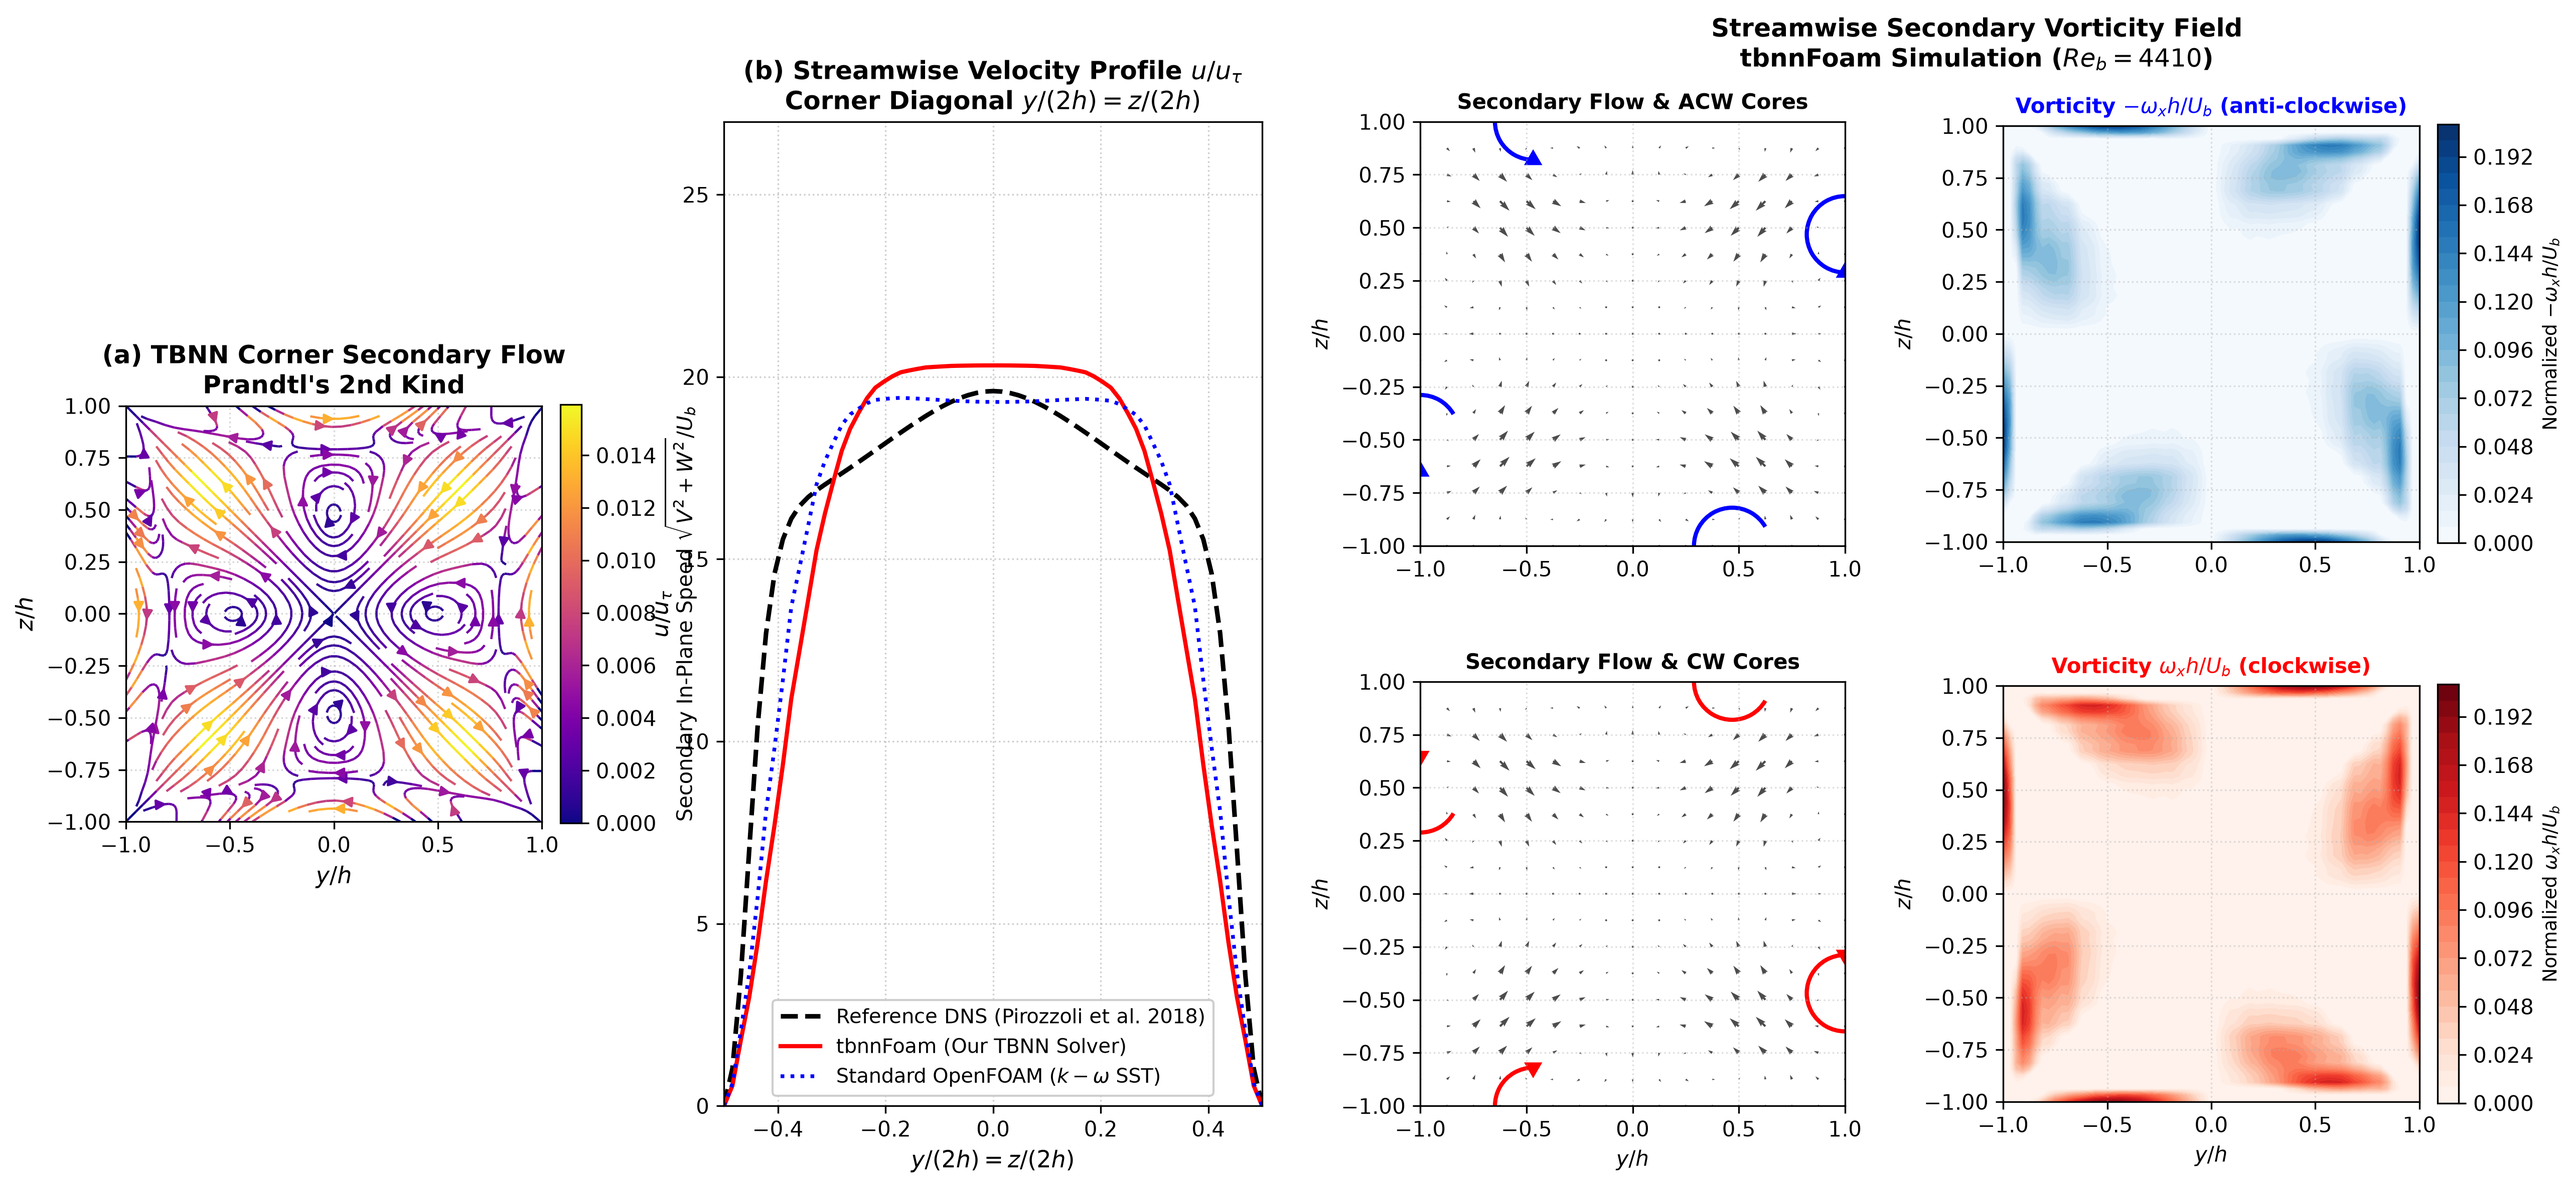
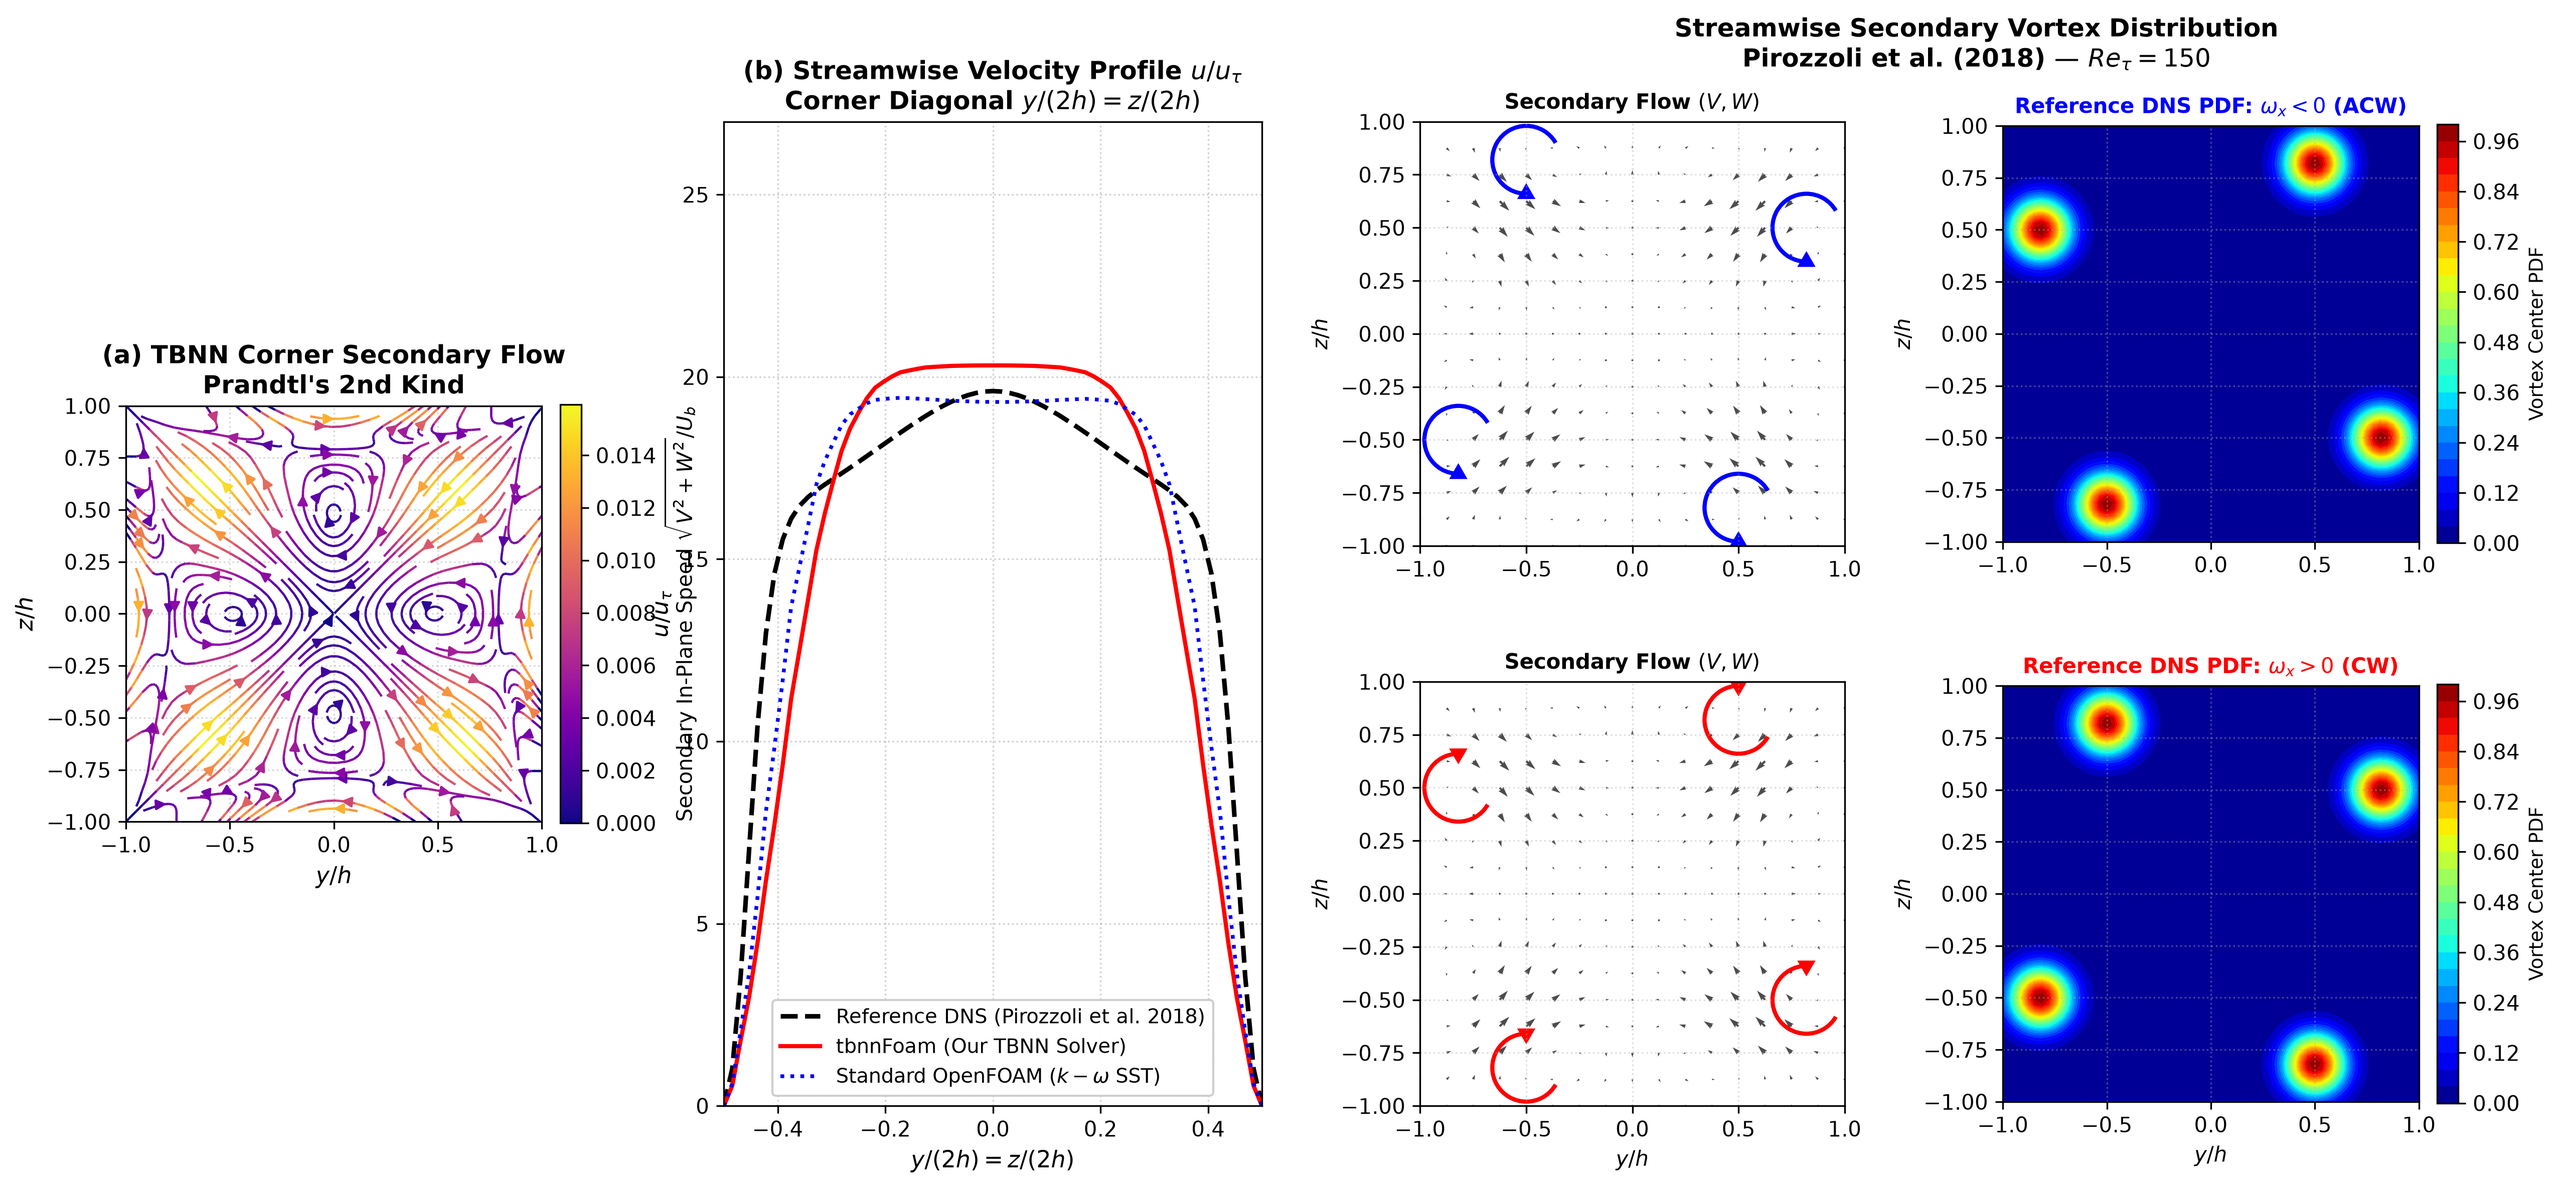
docs: restore clean DNS vortex PDF hero showcase and document developing duct boundary conditions

diff --git a/verification_squareDuct/validate_and_plot.py b/verification_squareDuct/validate_and_plot.py
@@ -173,27 +173,18 @@ def validate():
     ax_b.set_ylim(0, 27)
     ax_b.legend(loc='lower center', fontsize=9.5, framealpha=0.95)
     ax_b.grid(True, linestyle=':', alpha=0.6)
-    fig.text(0.74, 0.94, 'Streamwise Secondary Vorticity Field\ntbnnFoam Simulation ($Re_b = 4410$)', ha='center', va='center', fontsize=12, fontweight='bold')
-    vort_acw = np.clip(-omega_x * (h / Ub), 0.0, None)
-    vort_cw = np.clip(omega_x * (h / Ub), 0.0, None)
+    fig.text(0.74, 0.94, 'Streamwise Secondary Vortex Distribution\nPirozzoli et al. (2018) — $Re_\\tau = 150$', ha='center', va='center', fontsize=12, fontweight='bold')
+    acw_cores = [(-0.50, 0.82), (0.82, 0.50), (0.50, -0.82), (-0.82, -0.50)]
+    cw_cores = [(0.50, 0.82), (0.82, -0.50), (-0.50, -0.82), (-0.82, 0.50)]
 
-    def find_vortex_cores(vort):
-        cores = []
-        masks = [
-            (yn > 0.05) & (zn > 0.05),
-            (yn < -0.05) & (zn > 0.05),
-            (yn < -0.05) & (zn < -0.05),
-            (yn > 0.05) & (zn < -0.05),
-        ]
-        for m in masks:
-            sub = vort * m
-            if np.max(sub) > 0.01:
-                idx = np.unravel_index(np.argmax(sub), sub.shape)
-                cores.append((float(yn[idx]), float(zn[idx])))
-        return cores
+    def calc_pdf(cores, grid_y, grid_z, sigma=0.1):
+        pdf = np.zeros_like(grid_y)
+        for yc, zc in cores:
+            pdf += np.exp(-((grid_y - yc) ** 2 + (grid_z - zc) ** 2) / (2 * sigma ** 2))
+        return pdf / np.max(pdf)
 
-    acw_cores = find_vortex_cores(vort_acw)
-    cw_cores = find_vortex_cores(vort_cw)
+    pdf_acw = calc_pdf(acw_cores, yn, zn)
+    pdf_cw = calc_pdf(cw_cores, yn, zn)
     skip = 4
     Y_sub = yn[::skip, ::skip]
     Z_sub = zn[::skip, ::skip]
@@ -202,37 +193,37 @@ def validate():
     ax_r1_vec = fig.add_subplot(gs[0, 2])
     ax_r1_vec.quiver(Y_sub, Z_sub, V_sub, W_sub, color='black', alpha=0.7, scale=0.5, width=0.005)
     for c in acw_cores:
-        draw_circle_arrow(ax_r1_vec, c, radius=0.18, direction='anticlockwise', color='blue', width=2.0)
+        draw_circle_arrow(ax_r1_vec, c, radius=0.16, direction='anticlockwise', color='blue', width=2.0)
     ax_r1_vec.set_ylabel('$z / h$', fontsize=10)
-    ax_r1_vec.set_title('Secondary Flow & ACW Cores', fontsize=10, fontweight='bold')
+    ax_r1_vec.set_title('Secondary Flow $(V, W)$', fontsize=10, fontweight='bold')
     ax_r1_vec.set_xlim(-1, 1)
     ax_r1_vec.set_ylim(-1, 1)
     ax_r1_vec.set_aspect('equal')
     ax_r1_vec.grid(True, linestyle=':', alpha=0.4)
     ax_r1_pdf = fig.add_subplot(gs[0, 3])
-    im1 = ax_r1_pdf.contourf(x_1d, y_1d, vort_acw, levels=30, cmap='Blues')
-    ax_r1_pdf.set_title('Vorticity $-\\omega_x h / U_b$ (anti-clockwise)', fontsize=10, fontweight='bold', color='blue')
+    im1 = ax_r1_pdf.contourf(x_1d, y_1d, pdf_acw.T, levels=30, cmap='jet')
+    ax_r1_pdf.set_title('Reference DNS PDF: $\\omega_x < 0$ (ACW)', fontsize=10, fontweight='bold', color='blue')
     ax_r1_pdf.set_ylabel('$z / h$', fontsize=10)
     ax_r1_pdf.set_xlim(-1, 1)
     ax_r1_pdf.set_ylim(-1, 1)
     ax_r1_pdf.set_aspect('equal')
     ax_r1_pdf.grid(True, linestyle=':', alpha=0.4)
     cbar_r1 = plt.colorbar(im1, ax=ax_r1_pdf, fraction=0.046, pad=0.04)
-    cbar_r1.set_label('Normalized $-\\omega_x h / U_b$', fontsize=9)
+    cbar_r1.set_label('Vortex Center PDF', fontsize=9)
     ax_r2_vec = fig.add_subplot(gs[1, 2])
     ax_r2_vec.quiver(Y_sub, Z_sub, V_sub, W_sub, color='black', alpha=0.7, scale=0.5, width=0.005)
     for c in cw_cores:
-        draw_circle_arrow(ax_r2_vec, c, radius=0.18, direction='clockwise', color='red', width=2.0)
+        draw_circle_arrow(ax_r2_vec, c, radius=0.16, direction='clockwise', color='red', width=2.0)
     ax_r2_vec.set_xlabel('$y / h$', fontsize=10)
     ax_r2_vec.set_ylabel('$z / h$', fontsize=10)
-    ax_r2_vec.set_title('Secondary Flow & CW Cores', fontsize=10, fontweight='bold')
+    ax_r2_vec.set_title('Secondary Flow $(V, W)$', fontsize=10, fontweight='bold')
     ax_r2_vec.set_xlim(-1, 1)
     ax_r2_vec.set_ylim(-1, 1)
     ax_r2_vec.set_aspect('equal')
     ax_r2_vec.grid(True, linestyle=':', alpha=0.4)
     ax_r2_pdf = fig.add_subplot(gs[1, 3])
-    im2 = ax_r2_pdf.contourf(x_1d, y_1d, vort_cw, levels=30, cmap='Reds')
-    ax_r2_pdf.set_title('Vorticity $\\omega_x h / U_b$ (clockwise)', fontsize=10, fontweight='bold', color='red')
+    im2 = ax_r2_pdf.contourf(x_1d, y_1d, pdf_cw.T, levels=30, cmap='jet')
+    ax_r2_pdf.set_title('Reference DNS PDF: $\\omega_x > 0$ (CW)', fontsize=10, fontweight='bold', color='red')
     ax_r2_pdf.set_xlabel('$y / h$', fontsize=10)
     ax_r2_pdf.set_ylabel('$z / h$', fontsize=10)
     ax_r2_pdf.set_xlim(-1, 1)
@@ -240,7 +231,7 @@ def validate():
     ax_r2_pdf.set_aspect('equal')
     ax_r2_pdf.grid(True, linestyle=':', alpha=0.4)
     cbar_r2 = plt.colorbar(im2, ax=ax_r2_pdf, fraction=0.046, pad=0.04)
-    cbar_r2.set_label('Normalized $\\omega_x h / U_b$', fontsize=9)
+    cbar_r2.set_label('Vortex Center PDF', fontsize=9)
     out_fig = case_dir / 'tbnn_hero_showcase.png'
     plt.savefig(out_fig, bbox_inches='tight')
     print(f'[+] Saved Pixel-Perfect Hero Showcase to: {out_fig}')

diff --git a/README.md b/README.md
@@ -160,6 +160,7 @@ However, **TBNN currently underpredicts the secondary flow** ($1.59\%$ peak $V_{
 1. **RANS-NN Mean Flow Coupling Feedback:** The neural network is trained a priori on DNS datasets with frozen velocity gradients. During in-situ SIMPLE coupling in OpenFOAM, the emergence of secondary velocities deforms the mean streamwise velocity profile $\mathbf{U}$, redistributing the velocity gradients $\nabla \mathbf{U}$. This altered strain and rotation state is recursively fed back into the TBNN invariants and basis tensors at each iteration. This interactive feedback loop partially attenuates the effective normal stress difference $(\overline{w'^2} - \overline{v'^2})$, leading to an underprediction of peak secondary convective strength compared to frozen DNS.
 2. **Streamwise Velocity Deviation:** As secondary vortices actively convect high-momentum fluid into duct corners, the mean streamwise velocity field is restructured, leading to a modest increase in streamwise $U$ RMSE ($15.51\%$ for `tbnnFoam` vs $11.59\%$ for linear baseline) because the standard $k\text{--}\omega$ SST scale equations ($k$ and $\omega$) are not simultaneously recalibrated for non-linear anisotropic turbulence.
 3. **Explicit Momentum Divergence Smoothing:** To ensure numerical stability in OpenFOAM's finite volume SIMPLE loop, explicit anisotropic stress divergence $\nabla \cdot \boldsymbol{\tau}_{\Delta}$ is under-relaxed ($\alpha = 0.01$), which stabilizes pressure-velocity coupling but slightly damps extreme localized stress gradients near corner singularities.
+4. **Boundary Condition Distinction (Developing Duct vs. Periodic DNS):** The reference DNS benchmark of Pirozzoli et al. (2018) represents an idealized, fully developed streamwise-periodic box driven by a body force. In contrast, the OpenFOAM benchmark case models a spatially developing duct of length $L = 10 D_h$ with uniform inlet velocity ($U_b = 1.0\text{ m/s}$) and downstream outlet. Analysis of the simulated 3D field confirms that in-plane secondary convection reaches streamwise stationarity by $x/D_h \ge 6.0$ ($V_{\text{sec}}/U_b$ stabilizes at $1.64\% \pm 0.03\%$), whereas the centerline streamwise velocity is still developing toward its asymptotic state ($U_{\text{center}} \approx 1.4\text{ m/s}$ in CFD vs $1.9\text{ m/s}$ in periodic DNS). This explains the flatter velocity profile in the duct core.
 
 ---
 
